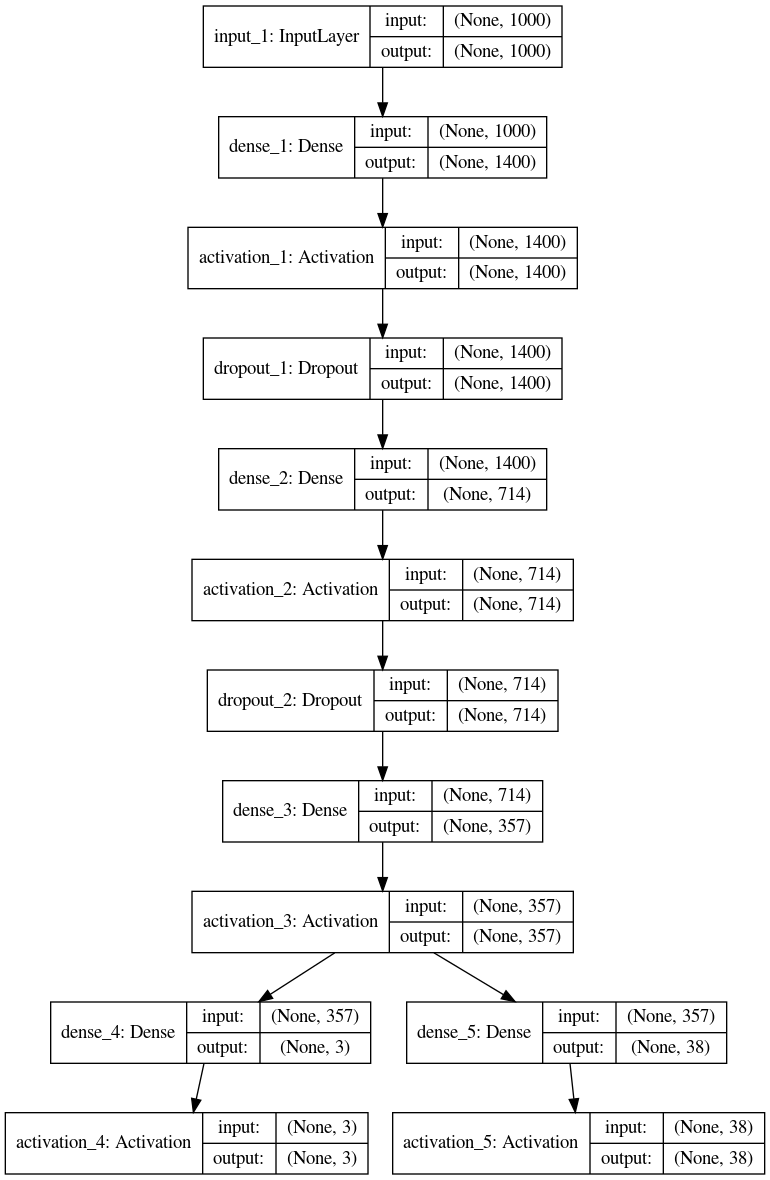
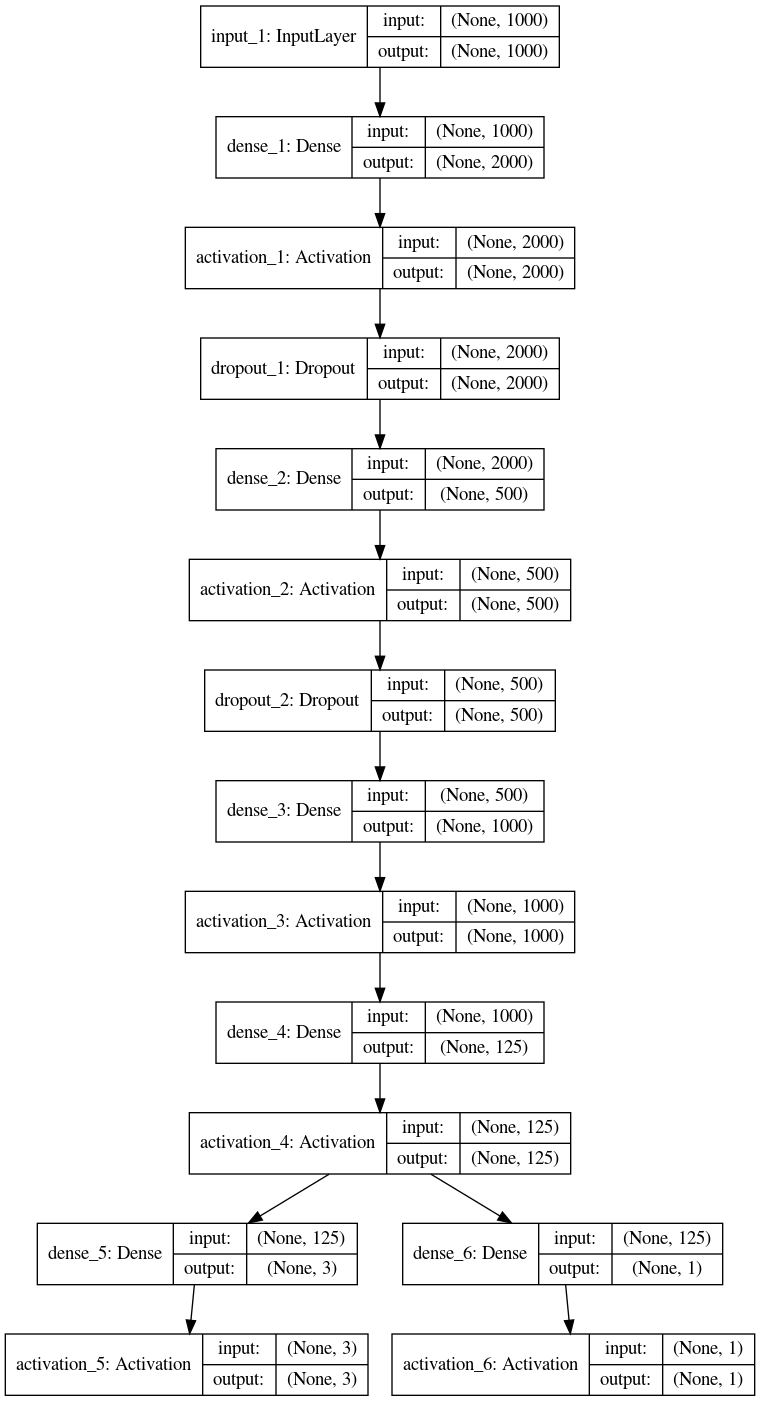
regression in multitask

Changed region(s): [[0.0, 0.0, 0.9987, 1.0]]

diff --git a/src/model/dnn_classifier.py b/src/model/dnn_classifier.py
@@ -3,11 +3,12 @@ import json
 import numpy as np
 import pandas as pd
 import keras_metrics as km
+import keras.backend as K
 from keras.models import Model, Sequential
 from keras.layers import Input, Dense, Dropout, Activation
 from keras.optimizers import SGD
 from keras.utils import plot_model
-from sklearn.metrics import classification_report
+from sklearn.metrics import classification_report, mean_squared_error
 
 
 class SingleTaskDNN():
@@ -25,9 +26,10 @@ class SingleTaskDNN():
         self.batch_size = self.config['batch_size']
         self.dropout = self.config['dropout']
         self.epochs = self.config['epochs']
-        self.hidden_dim = int(self.input_dim * self.hidden_ratio)
-        self.output_dim = [int(self.input_dim / self.hidden_ratio),
-                            int(self.input_dim  / (self.hidden_ratio * 2))]
+        self.hidden_dim = [int(self.input_dim * self.hidden_ratio), 
+                            int(self.input_dim / self.hidden_ratio),
+                            int(self.input_dim / self.hidden_ratio * 2)]
+        self.output_dim = int(self.input_dim  / (self.hidden_ratio * 4))
 
     def prepare_label(self, labels, dimension):
         multi_labels = np.zeros((len(labels), dimension), dtype=np.float64)
@@ -37,13 +39,15 @@ class SingleTaskDNN():
 
     def build_model(self):
         self.model = Sequential()
-        self.model.add(Dense(self.hidden_dim, input_shape=(self.input_dim,)))
+        self.model.add(Dense(self.hidden_dim[0], input_shape=(self.input_dim,)))
         self.model.add(Activation('relu'))
         self.model.add(Dropout(self.dropout))
-        self.model.add(Dense(self.output_dim[0]))
+        self.model.add(Dense(self.hidden_dim[1]))
         self.model.add(Activation('relu'))
         self.model.add(Dropout(self.dropout))
-        self.model.add(Dense(self.output_dim[1]))
+        self.model.add(Dense(self.hidden_dim[2]))
+        self.model.add(Activation('relu'))
+        self.model.add(Dense(self.output_dim))
         self.model.add(Activation('relu'))
         self.model.add(Dense(self.num_class))
         self.model.add(Activation('sigmoid'))
@@ -71,44 +75,43 @@ class SingleTaskDNN():
 
 
 class MultiTaskDNN(SingleTaskDNN):
-    def __init__(self, name, input_dim, num_class, reg_range):
-        self.reg_range = reg_range
+    def __init__(self, name, input_dim, num_class):
         self.config = json.load(open('./config/model.json', 'r'))['multiDNN']
         SingleTaskDNN.__init__(self, name, input_dim, num_class)
         self.load_basics()
     
     def prepare_regression_label(self, ymrs, inst):
-        return [ymrs[inst[i] - 1] for i in range(len(inst))] 
+        return np.array([ymrs[inst[i] - 1] for i in range(len(inst))])
 
     def build_model(self):
         input_layer = Input(shape=(self.input_dim, ))
-        dense_layer = Dense(self.hidden_dim)(input_layer)
+        dense_layer = Dense(self.hidden_dim[0])(input_layer)
         dense_layer = Activation('relu')(dense_layer)
         dense_layer = Dropout(self.dropout)(dense_layer)
-        dense_layer = Dense(self.output_dim[0])(dense_layer)
+        dense_layer = Dense(self.hidden_dim[1])(dense_layer)
         dense_layer = Activation('relu')(dense_layer)
         dense_layer = Dropout(self.dropout)(dense_layer)
-        dense_layer = Dense(self.output_dim[1])(dense_layer)
+        dense_layer = Dense(self.hidden_dim[2])(dense_layer)
+        dense_layer = Activation('relu')(dense_layer)
+        dense_layer = Dense(self.output_dim)(dense_layer)
         dense_layer = Activation('relu')(dense_layer)
 
         # output layer for classification
-        output_layer_c = Activation('sigmoid')(Dense(self.num_class)(dense_layer))
+        output_layer_c = Activation('softmax')(Dense(self.num_class)(dense_layer))
         # output layer for regression
-        output_layer_r = Activation('sigmoid')(Dense(self.reg_range)(dense_layer))
+        output_layer_r = Activation('linear')(Dense(1)(dense_layer))
 
         self.model = Model(inputs=input_layer, outputs=[output_layer_c, output_layer_r])
         print(self.model.summary())
 
-        self.model.compile(loss='binary_crossentropy', optimizer='adam', metrics=[km.recall()])
+        self.model.compile(loss=['binary_crossentropy', 'mean_squared_error'], optimizer='rmsprop', metrics=[km.recall()])
         plot_model(self.model, show_shapes=True, to_file='./images/models/multiTaskDNN.png')
     
     def train_model(self, X_train, y_train_c, y_train_r, X_dev, y_dev_c, y_dev_r):
         # para y_<>_c: labels for classification
         # para y_<>_r: labels for regression
         y_train_c = self.prepare_label(y_train_c, self.num_class)
-        y_train_r = self.prepare_label(y_train_r, self.reg_range)
         y_dev_c = self.prepare_label(y_dev_c, self.num_class)
-        y_dev_r = self.prepare_label(y_dev_r, self.reg_range)
 
         self.model.fit(X_train, [y_train_c, y_train_r],
                     epochs=self.epochs,
@@ -120,6 +123,5 @@ class MultiTaskDNN(SingleTaskDNN):
     def evaluate_model(self, X_test, y_test_c, y_test_r):
         y_pred_c, y_pred_r = self.model.predict(X_test, batch_size=self.batch_size)
         y_pred_c = [np.argmax(y) + 1 for y in y_pred_c]
-        y_pred_r = [np.argmax(y) + 1 for y in y_pred_r]
         print(classification_report(y_test_c, y_pred_c))
-        print(classification_report(y_test_r, y_pred_r))
+        print(mean_squared_error(y_test_r, y_pred_r))

diff --git a/src/experiment.py b/src/experiment.py
@@ -2,9 +2,11 @@ from src.model.autoencoder import AutoEncoder
 from src.model.autoencoder_bimodal import AutoEncoderBimodal
 from src.model.text2vec import Text2Vec
 from src.model.random_forest import RandomForest
+from src.model.dnn_classifier import MultiTaskDNN
 from src.utils.io import load_proc_baseline_feature
 from src.utils.io import load_aligned_features
 from src.utils.io import load_bags_of_words
+from src.utils.io import load_label
 from src.metric.uar import get_UAR
 
 import numpy as np
@@ -116,6 +118,24 @@ def BAE(arg):
 
         get_UAR(y_pred_train, y_train, inst_train[0], 'RF', 'biAE_aligned', 'multiple', train_set=True, test=True)
         get_UAR(y_pred_dev, y_dev, inst_dev[0], 'RF', 'biAE_aligned', 'multiple', test=True)
+
+
+def DNN(arg):
+    X_train_A, X_dev_A, X_test_A, X_train_V, X_dev_V, X_test_V, y_train, inst_train, y_dev, inst_dev = load_aligned_features(verbose=True)
+
+    bae = AutoEncoderBimodal('bimodal_aligned', X_train_A.shape[1], X_train_V.shape[1])
+    encoded_train, encoded_dev = bae.load_presentation()
+
+    ymrs_dev, ymrs_train, _, _ = load_label()
+    num_classes = max(max(y_train), max(y_dev))
+
+    test_dnn = MultiTaskDNN('bimodal_aligned', encoded_train.shape[1], num_classes)
+    y_dev_r = test_dnn.prepare_regression_label(ymrs_dev.values[:, 1], inst_dev)
+    y_train_r = test_dnn.prepare_regression_label(ymrs_train.values[:, 1], inst_train)
+    
+    test_dnn.build_model()
+    test_dnn.train_model(encoded_train, y_train, y_train_r, encoded_dev, y_dev, y_dev_r)
+    test_dnn.evaluate_model(encoded_dev, y_dev, y_dev_r)
 
 
 def TEXT(arg):

diff --git a/test/dnn_classifier_test.py b/test/dnn_classifier_test.py
@@ -31,17 +31,16 @@ class TestDNNClassifier(unittest.TestCase):
         X_train, y_train, inst_train, X_dev, y_dev, inst_dev = load_proc_baseline_feature('BoAW', verbose=True)
         ymrs_dev, ymrs_train, _, _ = load_label()
 
-        test_dnn = MultiTaskDNN('BoAW', X_train.shape[1], num_classes, reg_range)
+        self.assertEqual(X_train.shape[1], X_dev.shape[1])
+
+        num_classes = max(max(y_train), max(y_dev))
+        test_dnn = MultiTaskDNN('BoAW', X_train.shape[1], num_classes)
 
         y_dev_r = test_dnn.prepare_regression_label(ymrs_dev.values[:, 1], inst_dev)
         y_train_r = test_dnn.prepare_regression_label(ymrs_train.values[:, 1], inst_train)
 
-        self.assertEqual(X_train.shape[1], X_dev.shape[1])
         self.assertEqual(len(y_dev_r), len(y_dev))
         self.assertEqual(len(y_train_r), len(y_train))
-
-        num_classes = max(max(y_train), max(y_dev))
-        reg_range = max(max(y_train_r), max(y_dev_r))
 
         test_dnn.build_model()
         test_dnn.train_model(X_train, y_train, y_train_r, X_dev, y_dev, y_dev_r)

diff --git a/main.py b/main.py
@@ -49,10 +49,10 @@ def main(argv):
             print("--" * 20)
             run_baseline_system()
         elif opt in ('-x', '--experiment'):
-            from src.experiment import BAE, BAE_BOXW, TEXT
+            from src.experiment import BAE, BAE_BOXW, TEXT, DNN
             print("Experiment System")
             print("--" * 20)
-            BAE(arg)
+            DNN(arg)
         elif opt in ('-v', '--visualize'):
             from src.utils.vis import visualize_landmarks
             print("Visualize facial landmarks on videos")
